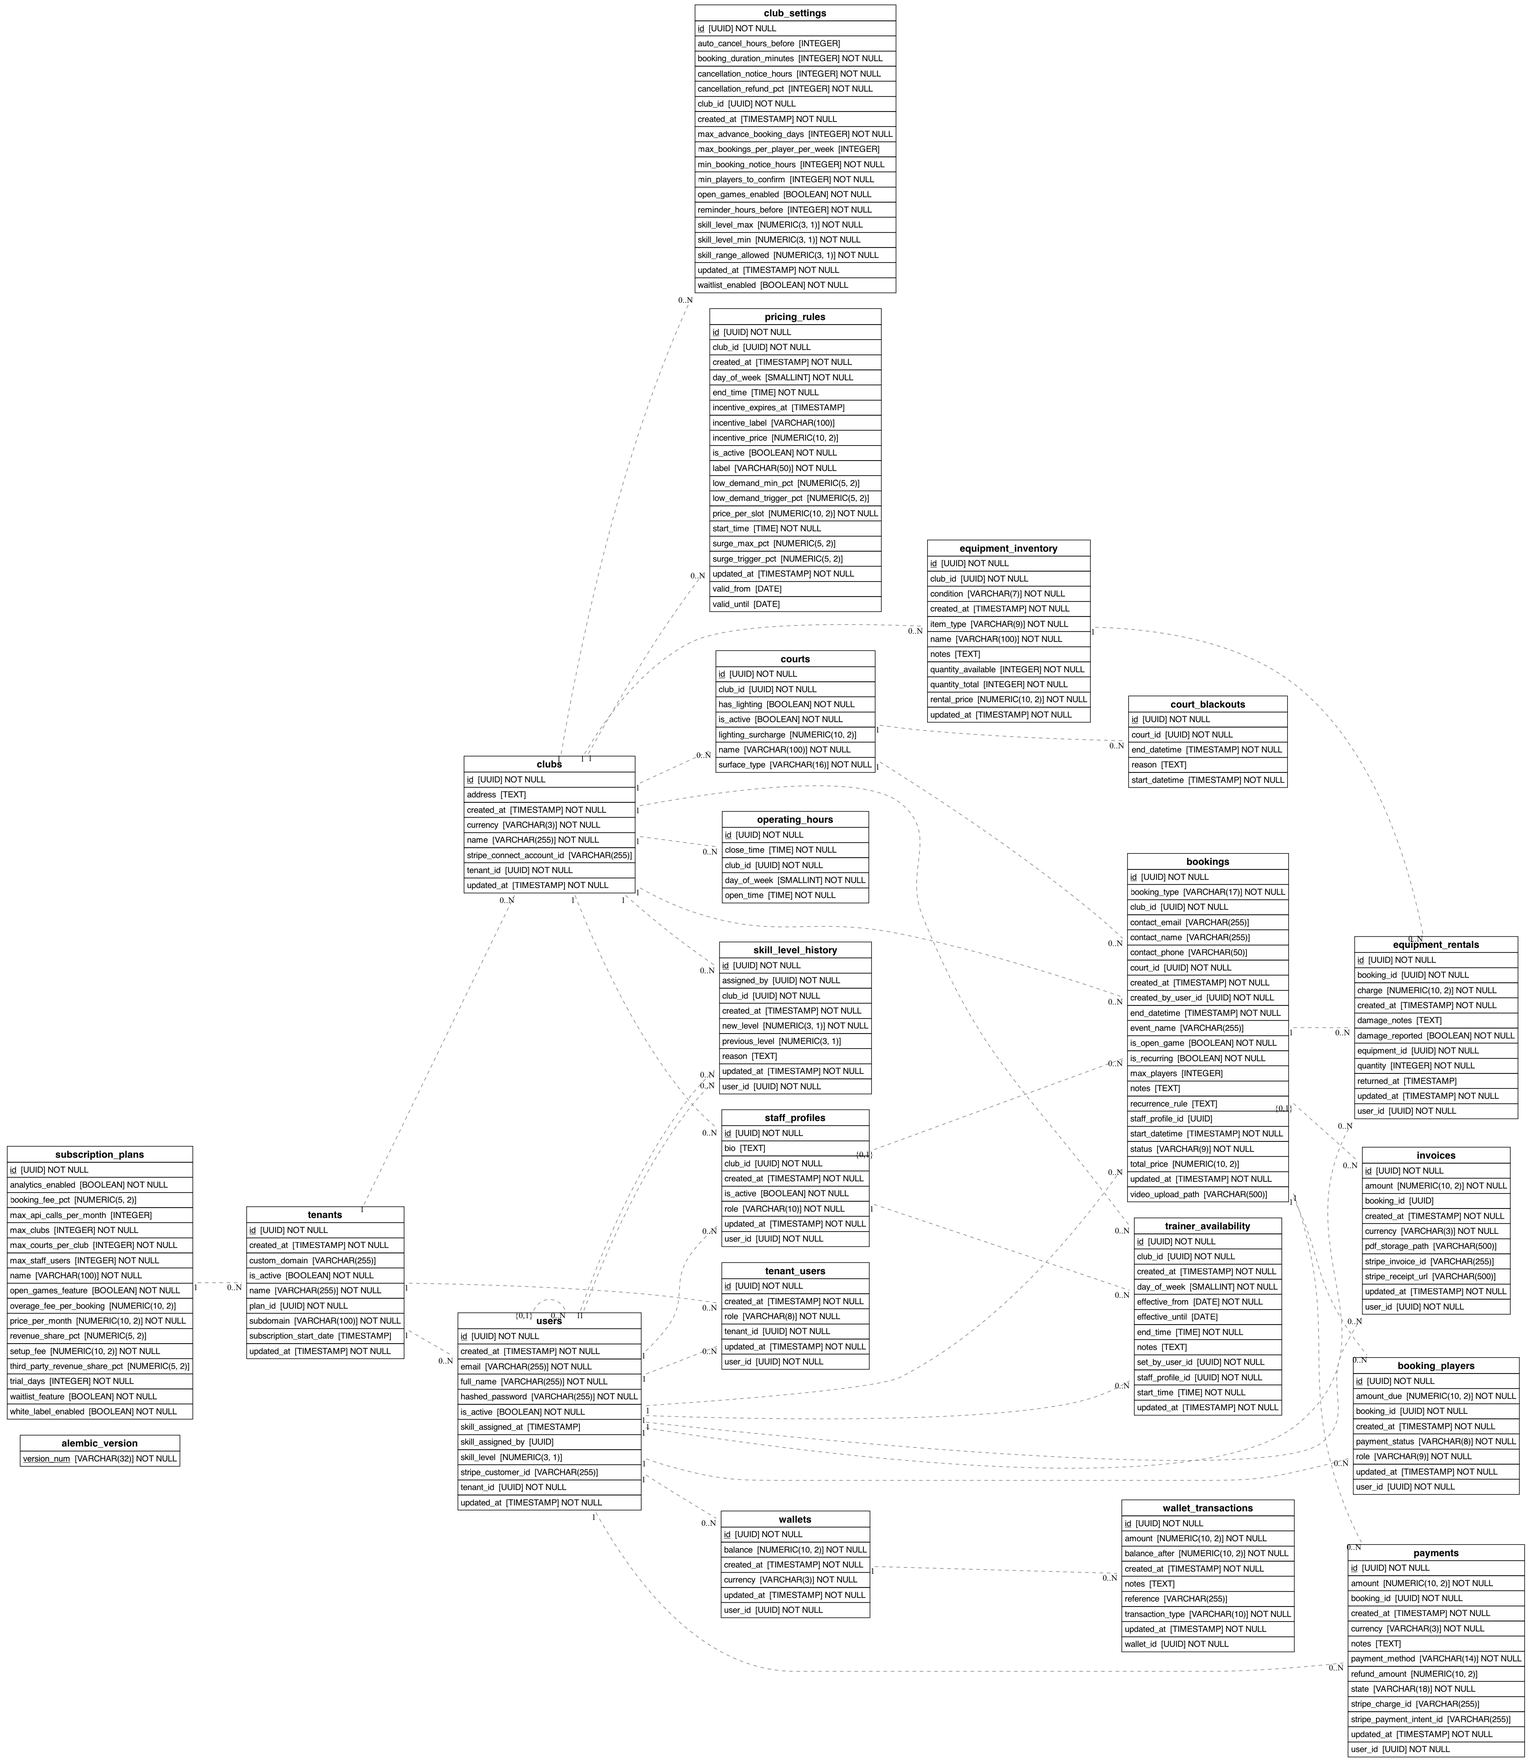
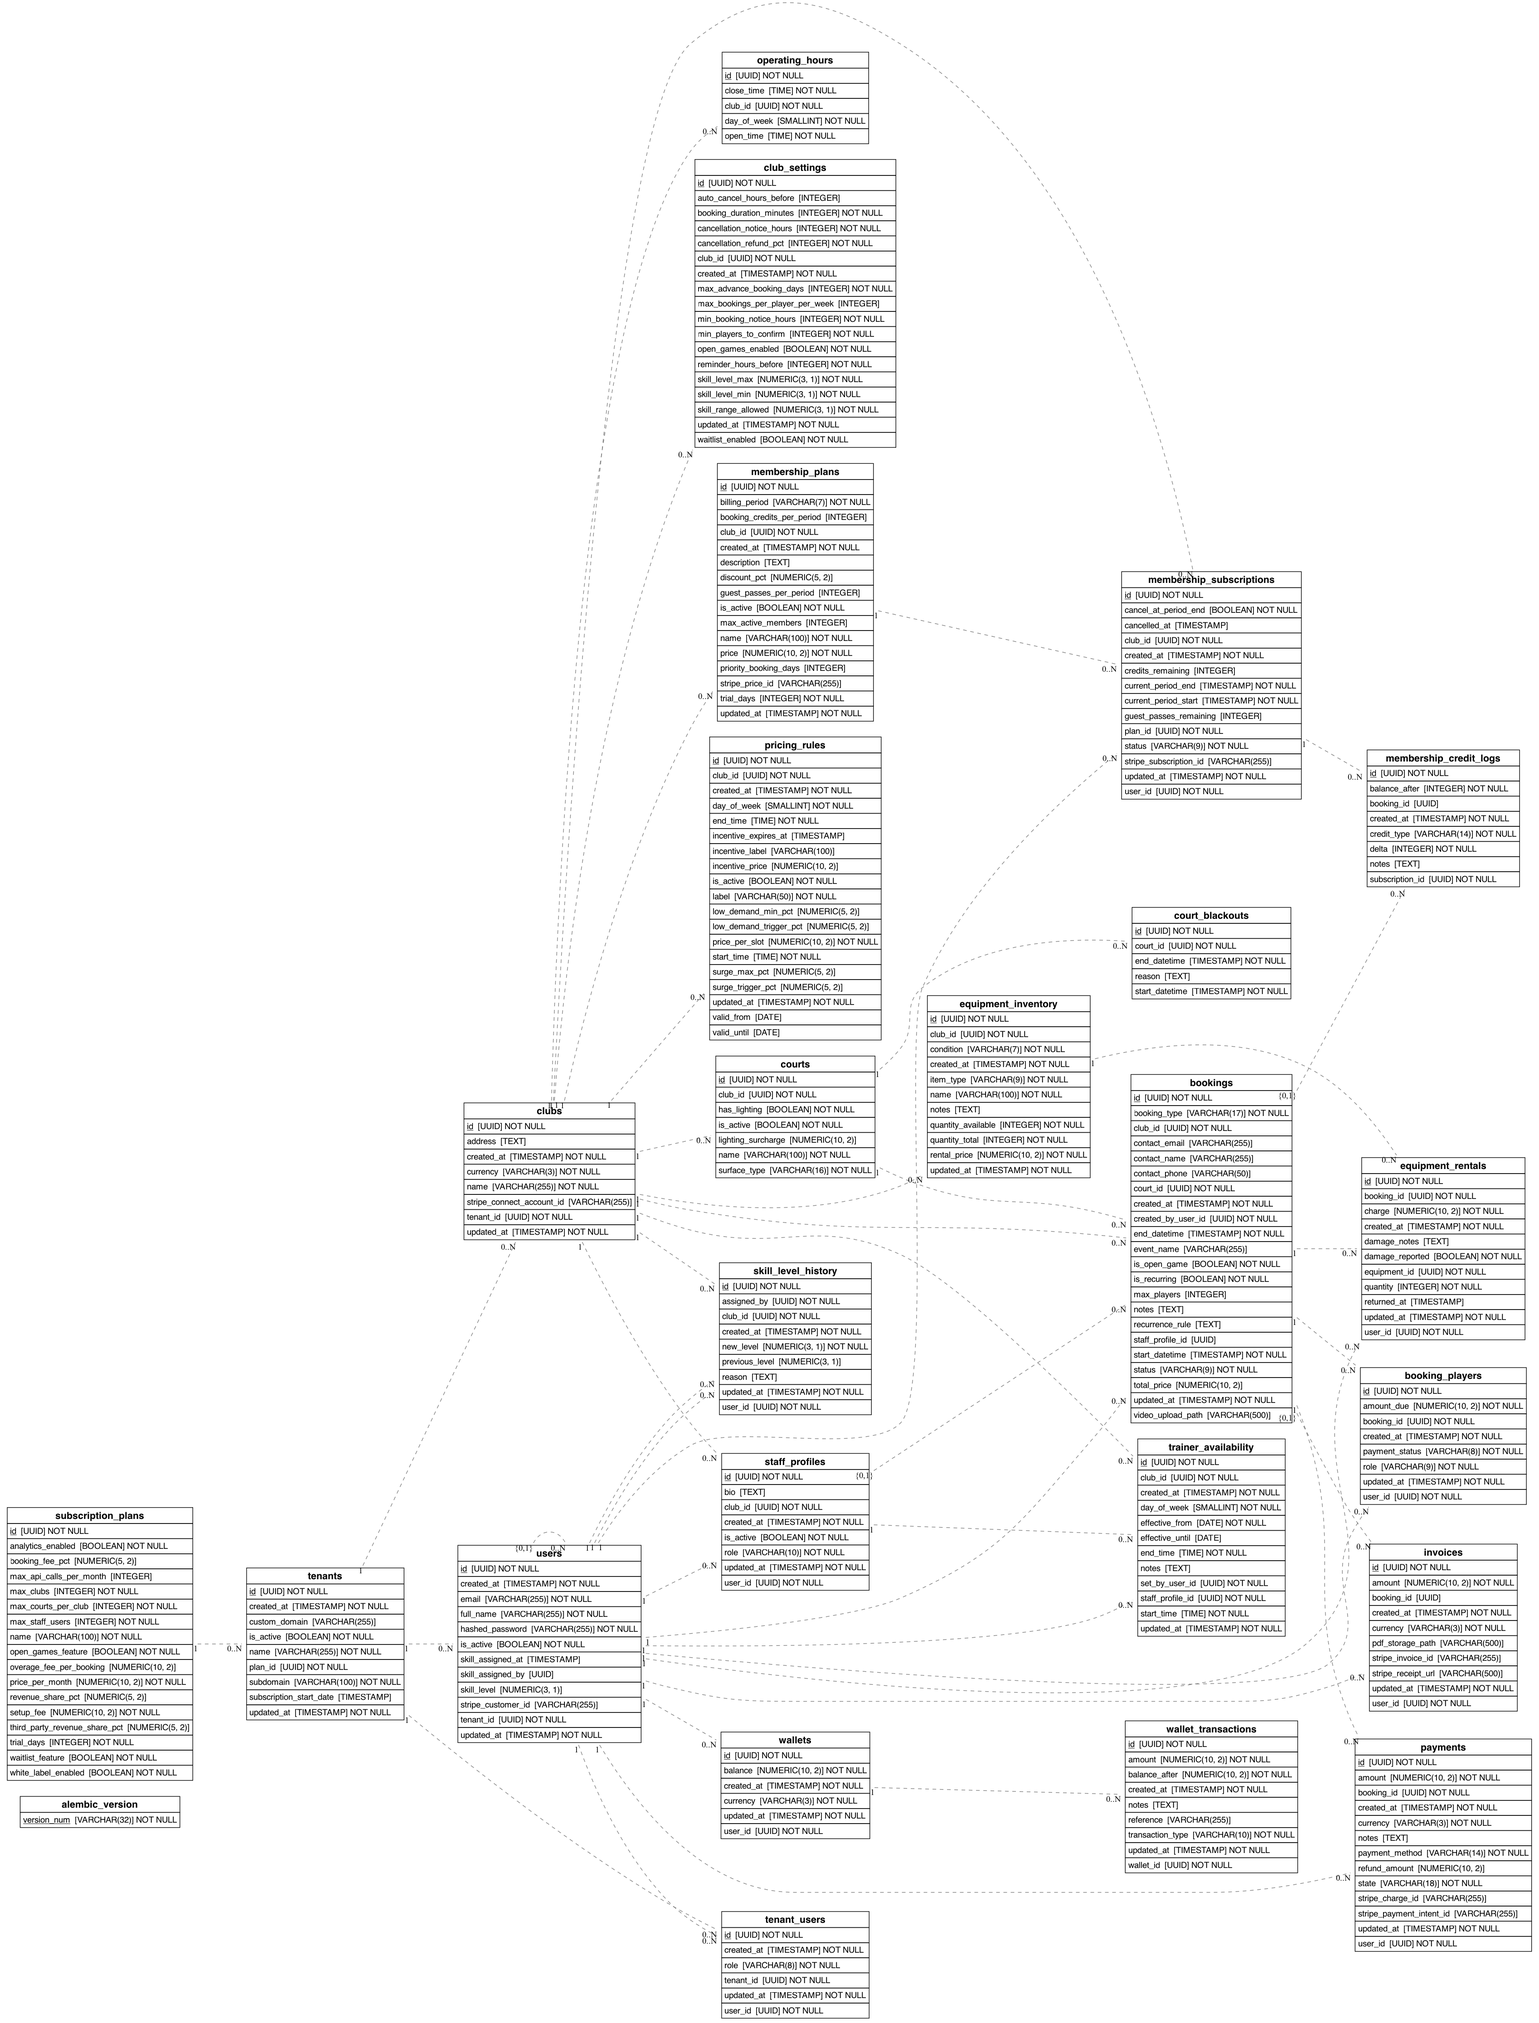
Database additions to configure membership levels

diff --git a/backend/app/db/migrations/versions/a1b2c3d4e5f6_membership_schema.py b/backend/app/db/migrations/versions/a1b2c3d4e5f6_membership_schema.py
@@ -1,0 +1,128 @@
+"""Add membership schema
+
+Revision ID: a1b2c3d4e5f6
+Revises: f4a5b6c7d8e9
+Create Date: 2026-03-19 00:00:00.000000
+
+Changes:
+- Create membership_plans     — club-defined subscription tiers
+- Create membership_subscriptions — player subscriptions to a plan
+- Create membership_credit_logs — immutable audit log for credit/pass usage
+- Add PostgreSQL ENUMs: billingperiod, membershipstatus, credittype
+"""
+from typing import Sequence, Union
+
+import sqlalchemy as sa
+from alembic import op
+from sqlalchemy.dialects import postgresql
+
+revision: str = "a1b2c3d4e5f6"
+down_revision: Union[str, None] = "f4a5b6c7d8e9"
+branch_labels: Union[str, Sequence[str], None] = None
+depends_on: Union[str, Sequence[str], None] = None
+
+# PostgreSQL ENUM types
+billing_period_enum = postgresql.ENUM(
+    "monthly", "annual",
+    name="billingperiod",
+    create_type=False,
+)
+membership_status_enum = postgresql.ENUM(
+    "trialing", "active", "paused", "cancelled", "expired",
+    name="membershipstatus",
+    create_type=False,
+)
+credit_type_enum = postgresql.ENUM(
+    "booking_credit", "guest_pass",
+    name="credittype",
+    create_type=False,
+)
+
+
+def upgrade() -> None:
+    # --- ENUMs ---
+    billing_period_enum.create(op.get_bind(), checkfirst=True)
+    membership_status_enum.create(op.get_bind(), checkfirst=True)
+    credit_type_enum.create(op.get_bind(), checkfirst=True)
+
+    # --- membership_plans ---
+    op.create_table(
+        "membership_plans",
+        sa.Column("id", postgresql.UUID(as_uuid=True), primary_key=True),
+        sa.Column("club_id", postgresql.UUID(as_uuid=True), sa.ForeignKey("clubs.id"), nullable=False),
+        sa.Column("name", sa.String(100), nullable=False),
+        sa.Column("description", sa.Text, nullable=True),
+        sa.Column("billing_period", billing_period_enum, nullable=False),
+        sa.Column("price", sa.Numeric(10, 2), nullable=False),
+        sa.Column("trial_days", sa.Integer, nullable=False, server_default="0"),
+        sa.Column("booking_credits_per_period", sa.Integer, nullable=True),
+        sa.Column("guest_passes_per_period", sa.Integer, nullable=True),
+        sa.Column("discount_pct", sa.Numeric(5, 2), nullable=True),
+        sa.Column("priority_booking_days", sa.Integer, nullable=True),
+        sa.Column("max_active_members", sa.Integer, nullable=True),
+        sa.Column("is_active", sa.Boolean, nullable=False, server_default=sa.true()),
+        sa.Column("stripe_price_id", sa.String(255), nullable=True),
+        sa.Column("created_at", sa.DateTime(timezone=True), nullable=False, server_default=sa.func.now()),
+        sa.Column("updated_at", sa.DateTime(timezone=True), nullable=False, server_default=sa.func.now()),
+    )
+    op.create_index("ix_membership_plans_club_id", "membership_plans", ["club_id"])
+
+    # --- membership_subscriptions ---
+    op.create_table(
+        "membership_subscriptions",
+        sa.Column("id", postgresql.UUID(as_uuid=True), primary_key=True),
+        sa.Column("user_id", postgresql.UUID(as_uuid=True), sa.ForeignKey("users.id"), nullable=False),
+        sa.Column("plan_id", postgresql.UUID(as_uuid=True), sa.ForeignKey("membership_plans.id"), nullable=False),
+        sa.Column("club_id", postgresql.UUID(as_uuid=True), sa.ForeignKey("clubs.id"), nullable=False),
+        sa.Column("status", membership_status_enum, nullable=False, server_default="active"),
+        sa.Column("current_period_start", sa.DateTime(timezone=True), nullable=False),
+        sa.Column("current_period_end", sa.DateTime(timezone=True), nullable=False),
+        sa.Column("cancel_at_period_end", sa.Boolean, nullable=False, server_default=sa.false()),
+        sa.Column("cancelled_at", sa.DateTime(timezone=True), nullable=True),
+        sa.Column("credits_remaining", sa.Integer, nullable=True),
+        sa.Column("guest_passes_remaining", sa.Integer, nullable=True),
+        sa.Column("stripe_subscription_id", sa.String(255), nullable=True),
+        sa.Column("created_at", sa.DateTime(timezone=True), nullable=False, server_default=sa.func.now()),
+        sa.Column("updated_at", sa.DateTime(timezone=True), nullable=False, server_default=sa.func.now()),
+    )
+    op.create_index("ix_membership_subscriptions_user_id", "membership_subscriptions", ["user_id"])
+    op.create_index("ix_membership_subscriptions_club_status", "membership_subscriptions", ["club_id", "status"])
+
+    # --- membership_credit_logs ---
+    op.create_table(
+        "membership_credit_logs",
+        sa.Column("id", postgresql.UUID(as_uuid=True), primary_key=True),
+        sa.Column(
+            "subscription_id",
+            postgresql.UUID(as_uuid=True),
+            sa.ForeignKey("membership_subscriptions.id"),
+            nullable=False,
+        ),
+        sa.Column("booking_id", postgresql.UUID(as_uuid=True), sa.ForeignKey("bookings.id"), nullable=True),
+        sa.Column("credit_type", credit_type_enum, nullable=False),
+        sa.Column("delta", sa.Integer, nullable=False),
+        sa.Column("balance_after", sa.Integer, nullable=False),
+        sa.Column("notes", sa.Text, nullable=True),
+        sa.Column("created_at", sa.DateTime(timezone=True), nullable=False, server_default=sa.func.now()),
+    )
+    op.create_index(
+        "ix_membership_credit_logs_subscription_id",
+        "membership_credit_logs",
+        ["subscription_id"],
+    )
+
+
+def downgrade() -> None:
+    op.drop_index("ix_membership_credit_logs_subscription_id", table_name="membership_credit_logs")
+    op.drop_table("membership_credit_logs")
+
+    op.drop_index("ix_membership_subscriptions_club_status", table_name="membership_subscriptions")
+    op.drop_index("ix_membership_subscriptions_user_id", table_name="membership_subscriptions")
+    op.drop_table("membership_subscriptions")
+
+    op.drop_index("ix_membership_plans_club_id", table_name="membership_plans")
+    op.drop_table("membership_plans")
+
+    credit_type_enum.drop(op.get_bind(), checkfirst=True)
+    membership_status_enum.drop(op.get_bind(), checkfirst=True)
+    billing_period_enum.drop(op.get_bind(), checkfirst=True)

diff --git a/backend/app/db/models/membership.py b/backend/app/db/models/membership.py
@@ -1,0 +1,95 @@
+import enum
+from sqlalchemy import Column, String, ForeignKey, Numeric, Integer, Boolean, Text, Enum, DateTime
+from sqlalchemy.dialects.postgresql import UUID
+from sqlalchemy.orm import relationship
+from .base import Base, UUIDMixin, TimestampMixin
+
+
+class BillingPeriod(str, enum.Enum):
+    monthly = "monthly"
+    annual = "annual"
+
+
+class MembershipStatus(str, enum.Enum):
+    trialing = "trialing"
+    active = "active"
+    paused = "paused"
+    cancelled = "cancelled"
+    expired = "expired"
+
+
+class CreditType(str, enum.Enum):
+    booking_credit = "booking_credit"
+    guest_pass = "guest_pass"
+
+
+class MembershipPlan(Base, UUIDMixin, TimestampMixin):
+    """Club-defined membership tier (e.g. Silver / Gold / Platinum)."""
+    __tablename__ = "membership_plans"
+
+    club_id = Column(UUID(as_uuid=True), ForeignKey("clubs.id"), nullable=False)
+    name = Column(String(100), nullable=False)
+    description = Column(Text, nullable=True)
+    billing_period = Column(Enum(BillingPeriod), nullable=False)
+    price = Column(Numeric(10, 2), nullable=False)
+    trial_days = Column(Integer, nullable=False, default=0)
+
+    # Booking entitlements per billing period
+    booking_credits_per_period = Column(Integer, nullable=True)   # NULL = unlimited
+    guest_passes_per_period = Column(Integer, nullable=True)      # NULL = none
+
+    # Pricing benefits
+    discount_pct = Column(Numeric(5, 2), nullable=True)           # % off court bookings
+    priority_booking_days = Column(Integer, nullable=True)        # extra advance-booking window
+
+    # Capacity cap
+    max_active_members = Column(Integer, nullable=True)           # NULL = unlimited
+
+    is_active = Column(Boolean, nullable=False, default=True)
+    stripe_price_id = Column(String(255), nullable=True)          # Stripe recurring Price ID
+
+    club = relationship("Club", back_populates="membership_plans")
+    subscriptions = relationship("MembershipSubscription", back_populates="plan")
+
+
+class MembershipSubscription(Base, UUIDMixin, TimestampMixin):
+    """A player's active subscription to a MembershipPlan."""
+    __tablename__ = "membership_subscriptions"
+
+    user_id = Column(UUID(as_uuid=True), ForeignKey("users.id"), nullable=False)
+    plan_id = Column(UUID(as_uuid=True), ForeignKey("membership_plans.id"), nullable=False)
+    # Denormalised for tenant-scoping queries without joining through plan
+    club_id = Column(UUID(as_uuid=True), ForeignKey("clubs.id"), nullable=False)
+
+    status = Column(Enum(MembershipStatus), nullable=False, default=MembershipStatus.active)
+    current_period_start = Column(DateTime(timezone=True), nullable=False)
+    current_period_end = Column(DateTime(timezone=True), nullable=False)
+    cancel_at_period_end = Column(Boolean, nullable=False, default=False)
+    cancelled_at = Column(DateTime(timezone=True), nullable=True)
+
+    # Rolling credit balances for the current billing period
+    credits_remaining = Column(Integer, nullable=True)        # NULL when plan has unlimited credits
+    guest_passes_remaining = Column(Integer, nullable=True)   # NULL when plan has no guest passes
+
+    stripe_subscription_id = Column(String(255), nullable=True)
+
+    user = relationship("User", back_populates="membership_subscriptions")
+    plan = relationship("MembershipPlan", back_populates="subscriptions")
+    club = relationship("Club", back_populates="membership_subscriptions")
+    credit_logs = relationship("MembershipCreditLog", back_populates="subscription")
+
+
+class MembershipCreditLog(Base, UUIDMixin):
+    """Immutable audit log for booking-credit and guest-pass usage."""
+    __tablename__ = "membership_credit_logs"
+
+    subscription_id = Column(UUID(as_uuid=True), ForeignKey("membership_subscriptions.id"), nullable=False)
+    booking_id = Column(UUID(as_uuid=True), ForeignKey("bookings.id"), nullable=True)
+    credit_type = Column(Enum(CreditType), nullable=False)
+    delta = Column(Integer, nullable=False)          # negative = used, positive = restored/reset
+    balance_after = Column(Integer, nullable=False)  # snapshot for audit trail
+    notes = Column(Text, nullable=True)
+    created_at = Column(DateTime(timezone=True), nullable=False)
+
+    subscription = relationship("MembershipSubscription", back_populates="credit_logs")
+    booking = relationship("Booking")

diff --git a/backend/app/db/models/club.py b/backend/app/db/models/club.py
@@ -21,6 +21,8 @@ class Club(Base, UUIDMixin, TimestampMixin, TenantScopedMixin):
     staff_profiles = relationship("StaffProfile", back_populates="club")
     bookings = relationship("Booking", back_populates="club")
     equipment = relationship("EquipmentInventory", back_populates="club")
+    membership_plans = relationship("MembershipPlan", back_populates="club")
+    membership_subscriptions = relationship("MembershipSubscription", back_populates="club")
 
 
 class ClubSettings(Base, UUIDMixin, TimestampMixin):

diff --git a/backend/app/db/models/user.py b/backend/app/db/models/user.py
@@ -36,6 +36,7 @@ class User(Base, UUIDMixin, TimestampMixin, TenantScopedMixin):
     wallet = relationship("Wallet", back_populates="user", uselist=False)
     booking_players = relationship("BookingPlayer", back_populates="user")
     skill_history = relationship("SkillLevelHistory", foreign_keys="SkillLevelHistory.user_id", back_populates="user")
+    membership_subscriptions = relationship("MembershipSubscription", back_populates="user")
 
 
 class TenantUser(Base, UUIDMixin, TimestampMixin, TenantScopedMixin):

diff --git a/backend/app/db/models/__init__.py b/backend/app/db/models/__init__.py
@@ -9,6 +9,7 @@ from .equipment import EquipmentInventory, EquipmentRental
 from .skill import SkillLevelHistory
 from .wallet import Wallet, WalletTransaction
 from .payment import Payment, Invoice
+from .membership import MembershipPlan, MembershipSubscription, MembershipCreditLog
 
 __all__ = [
     "Base",
@@ -22,4 +23,5 @@ __all__ = [
     "SkillLevelHistory",
     "Wallet", "WalletTransaction",
     "Payment", "Invoice",
+    "MembershipPlan", "MembershipSubscription", "MembershipCreditLog",
 ]

diff --git a/docs/DATA_MODEL.md b/docs/DATA_MODEL.md
@@ -23,6 +23,10 @@ Tenant ──< Club ──< Court ──< Booking ──< BookingPlayer
 
 Tenant ──< TenantUser ──> User ──< Wallet ──< WalletTransaction
                                └──< SkillLevelHistory
+                               └──< MembershipSubscription ──> MembershipPlan
+                                                           └──< MembershipCreditLog
+
+Club ──< MembershipPlan ──< MembershipSubscription
 ```
 
 ---
@@ -462,6 +466,76 @@ Immutable audit log of player skill changes.
 
 ---
 
+### 11. Memberships
+
+#### `membership_plans`
+Club-defined subscription tiers (e.g. Silver, Gold, Platinum).
+
+| Column | Type | Notes |
+|---|---|---|
+| `id` | UUID | PK |
+| `club_id` | UUID | FK → `clubs` |
+| `name` | VARCHAR(100) | e.g. "Gold" |
+| `description` | TEXT | Nullable |
+| `billing_period` | ENUM | `monthly`, `annual` |
+| `price` | NUMERIC(10,2) | |
+| `trial_days` | INTEGER | Default `0` |
+| `booking_credits_per_period` | INTEGER | Nullable — `NULL` = unlimited |
+| `guest_passes_per_period` | INTEGER | Nullable — `NULL` = none |
+| `discount_pct` | NUMERIC(5,2) | Nullable — % off court bookings |
+| `priority_booking_days` | INTEGER | Nullable — extra advance-booking window beyond club default |
+| `max_active_members` | INTEGER | Nullable — enrollment cap; `NULL` = unlimited |
+| `is_active` | BOOLEAN | Default `true` |
+| `stripe_price_id` | VARCHAR(255) | Nullable — Stripe recurring Price ID |
+| `created_at` | TIMESTAMPTZ | |
+| `updated_at` | TIMESTAMPTZ | |
+
+**Relationships:** `club`, `subscriptions`
+
+---
+
+#### `membership_subscriptions`
+A player's active subscription to a `MembershipPlan`.
+
+| Column | Type | Notes |
+|---|---|---|
+| `id` | UUID | PK |
+| `user_id` | UUID | FK → `users` |
+| `plan_id` | UUID | FK → `membership_plans` |
+| `club_id` | UUID | FK → `clubs` — denormalised for tenant-scoping |
+| `status` | ENUM | `trialing`, `active`, `paused`, `cancelled`, `expired` |
+| `current_period_start` | TIMESTAMPTZ | |
+| `current_period_end` | TIMESTAMPTZ | |
+| `cancel_at_period_end` | BOOLEAN | Default `false` |
+| `cancelled_at` | TIMESTAMPTZ | Nullable |
+| `credits_remaining` | INTEGER | Nullable — `NULL` when plan has unlimited credits |
+| `guest_passes_remaining` | INTEGER | Nullable — `NULL` when plan has no guest passes |
+| `stripe_subscription_id` | VARCHAR(255) | Nullable |
+| `created_at` | TIMESTAMPTZ | |
+| `updated_at` | TIMESTAMPTZ | |
+
+**Relationships:** `user`, `plan`, `club`, `credit_logs`
+
+---
+
+#### `membership_credit_logs`
+Immutable audit log for booking-credit and guest-pass usage. Mirrors the `wallet_transactions` pattern.
+
+| Column | Type | Notes |
+|---|---|---|
+| `id` | UUID | PK |
+| `subscription_id` | UUID | FK → `membership_subscriptions` |
+| `booking_id` | UUID | FK → `bookings`, nullable |
+| `credit_type` | ENUM | `booking_credit`, `guest_pass` |
+| `delta` | INTEGER | Negative = used; positive = restored/reset |
+| `balance_after` | INTEGER | Snapshot for audit trail |
+| `notes` | TEXT | Nullable |
+| `created_at` | TIMESTAMPTZ | |
+
+**Relationships:** `subscription`, `booking`
+
+---
+
 ## Enumerations
 
 | Enum | Values |
@@ -478,6 +552,9 @@ Immutable audit log of player skill changes.
 | `WalletTransactionType` | `top_up`, `debit`, `refund`, `adjustment` |
 | `ItemType` | `racket`, `ball_tube`, `other` |
 | `ItemCondition` | `good`, `fair`, `damaged`, `retired` |
+| `BillingPeriod` | `monthly`, `annual` |
+| `MembershipStatus` | `trialing`, `active`, `paused`, `cancelled`, `expired` |
+| `CreditType` | `booking_credit`, `guest_pass` |
 
 ---
 
@@ -503,6 +580,11 @@ Managed with **Alembic**. Migration files live in [backend/app/db/migrations/ver
 |---|---|
 | `4f3a53db6bd2` | Initial schema — all 22 tables, FK relationships, PostgreSQL ENUMs |
 | `b9e1f2a3c4d5` | Fix datetime types to TIMESTAMPTZ, TIME; add composite indexes on `bookings` |
+| `c1d2e3f4a5b6` | Pricing rule discount and dynamic pricing |
+| `d2e3f4a5b6c7` | Add subscription plan commercial fields |
+| `e3f4a5b6c7d8` | Add `subscription_start_date` to tenants |
+| `f4a5b6c7d8e9` | Full dynamic pricing (surge, low-demand, incentives, seasonal) |
+| `a1b2c3d4e5f6` | Add membership schema — `membership_plans`, `membership_subscriptions`, `membership_credit_logs` |
 
 To run migrations:
 ```bash
